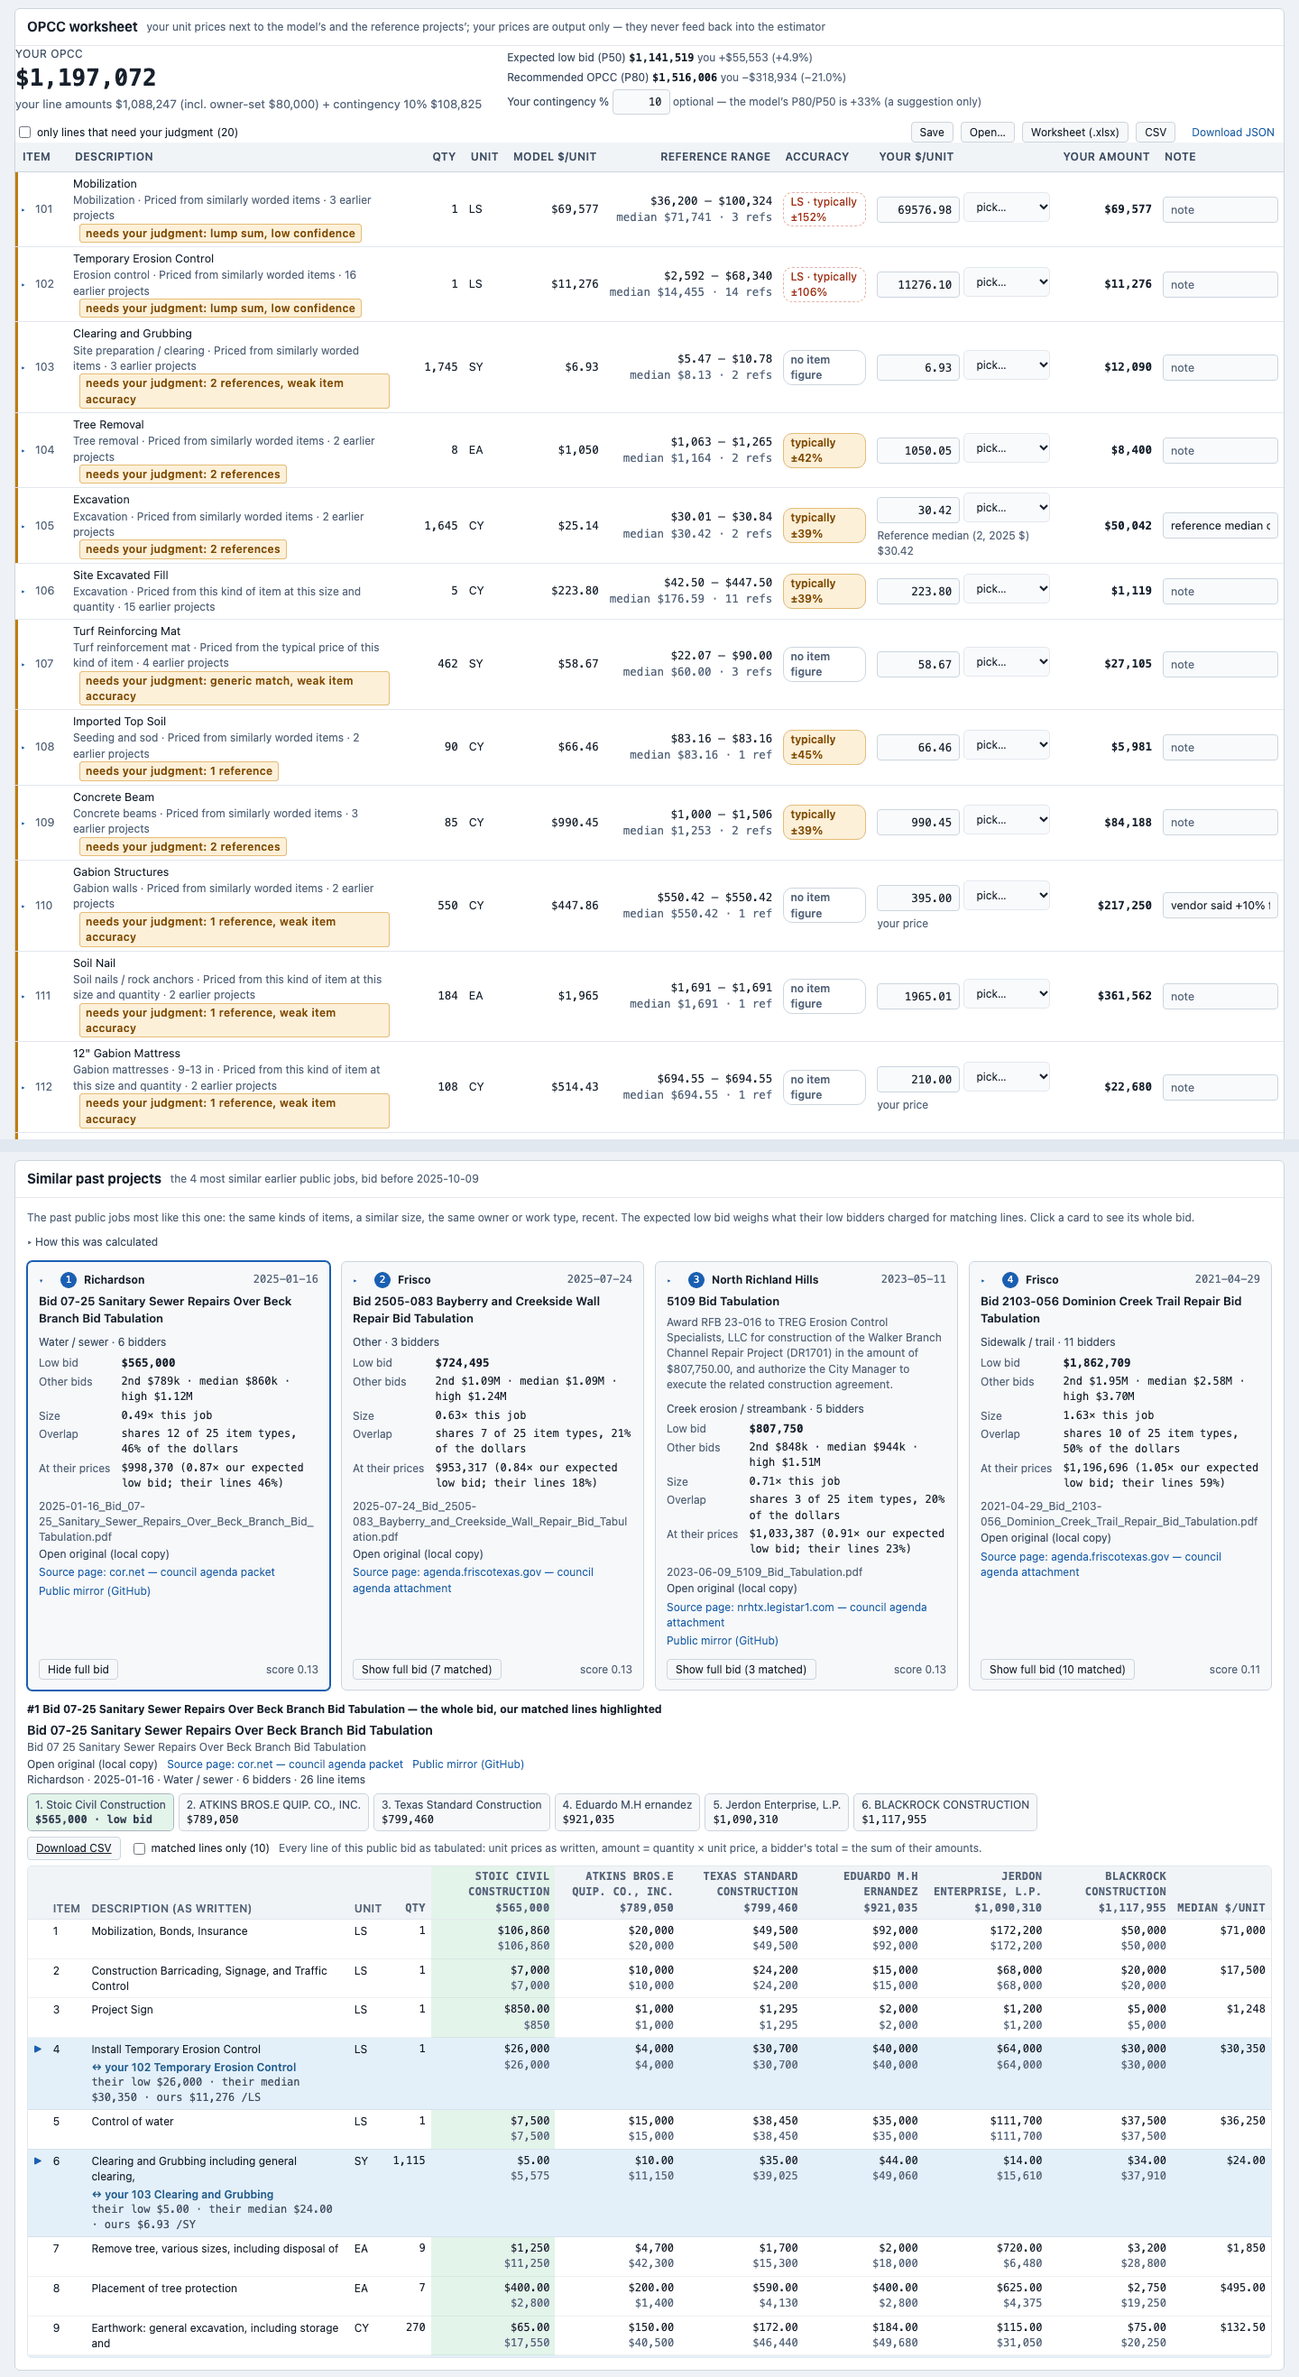
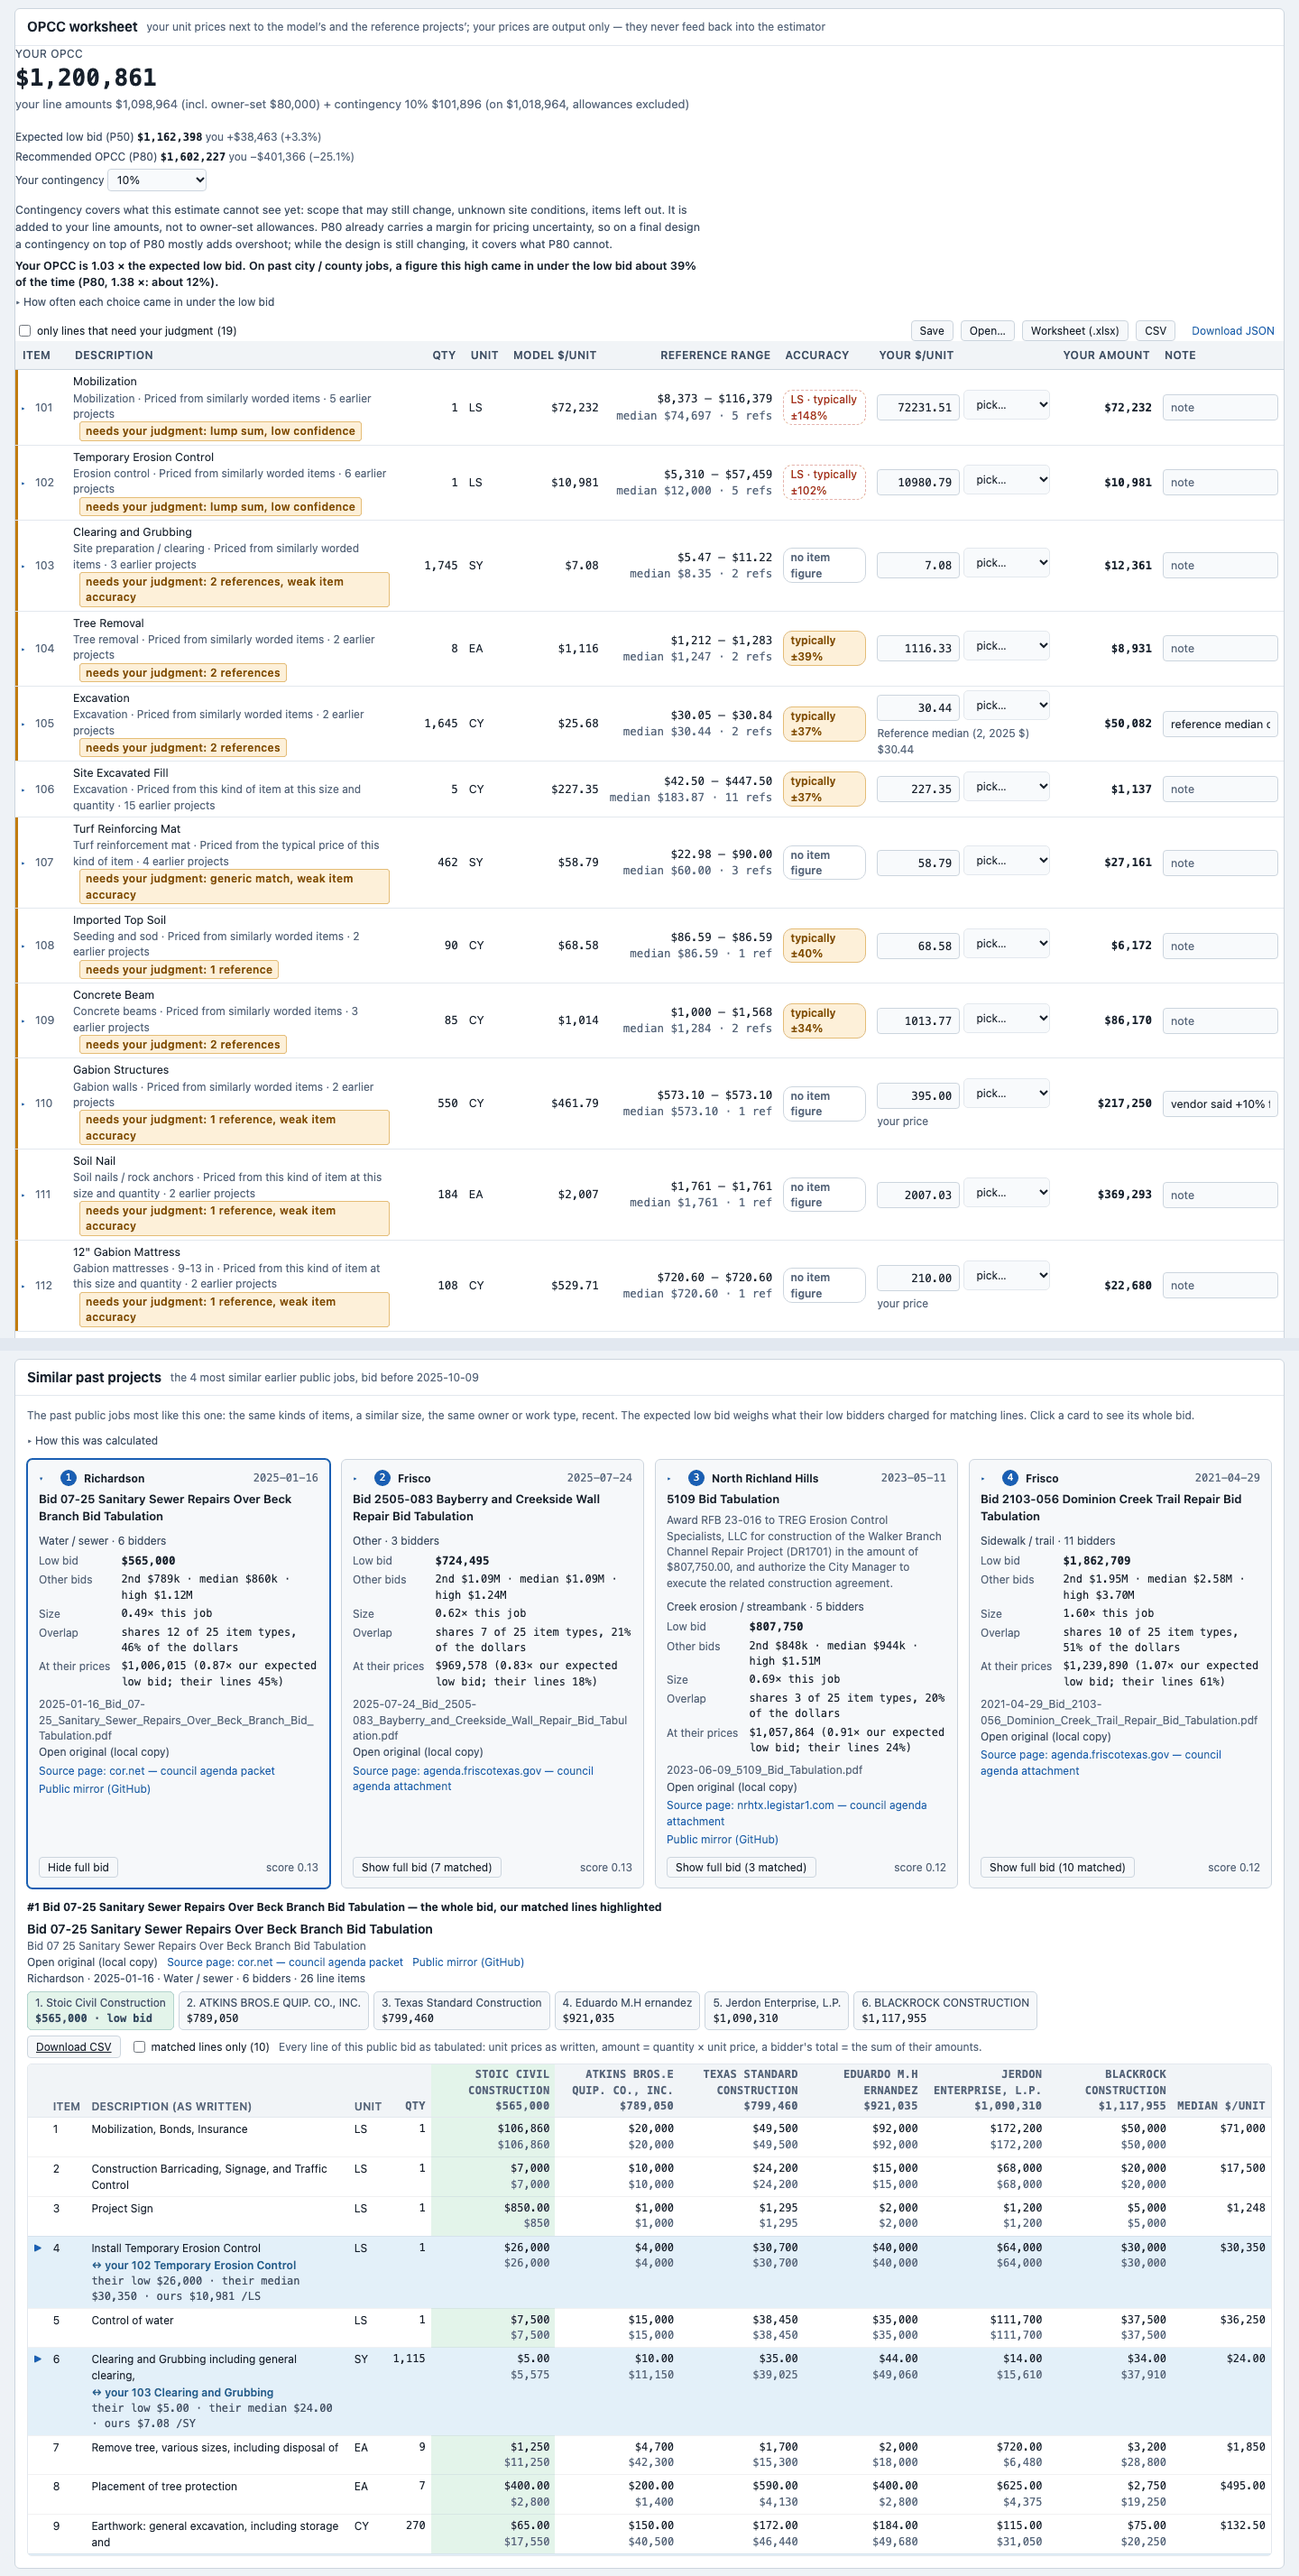
README: fresh screenshots (P50/P80 explanation, contingency picked from a list)
Both README screenshots retaken on the current data and page: the
estimate with its plain P50/P80 explanation and track record (224 city /
county jobs), and the worksheet with the contingency list. Captions
updated to match.

diff --git a/README.md b/README.md
@@ -51,11 +51,11 @@ Or start the app on your own machine with `.venv/bin/python ui/run.py`, then ope
 
 ![The estimate for a public creek-bank schedule: expected low bid (P50) and recommended OPCC (P80) with their ranges, and one line opened to the earlier public bids behind its price](assets/screenshot-estimate.png)
 
-*The estimate for a public creek-bank schedule (Coppell, 2025). P50 and P80 come with their ranges; one line is opened to the three most relevant earlier public bids, each linked to its source page and the public mirror.*
+*The estimate for a public creek-bank schedule (Coppell, 2025). P50 and P80 come with their ranges and a plain explanation of what each means. One line is opened to the three most relevant earlier public bids, with their source pages and public mirror copies where recorded.*
 
 ![The OPCC worksheet: the estimator's own unit prices, notes and a contingency next to P50 and P80, and the most similar past project opened to its full bid](assets/screenshot-worksheet.png)
 
-*The OPCC worksheet. Your own unit prices, notes and a contingency sit next to P50 and P80. Below it, the most similar past project is opened to its full public bid, with the lines that match yours highlighted.*
+*The OPCC worksheet. Your own unit prices, notes and a contingency picked from a list sit next to P50 and P80. Below it, the most similar past project is opened to its full public bid, with the lines that match yours highlighted.*
 
 **Your inputs stay yours.**
 - An engineer's estimate is never an input.
